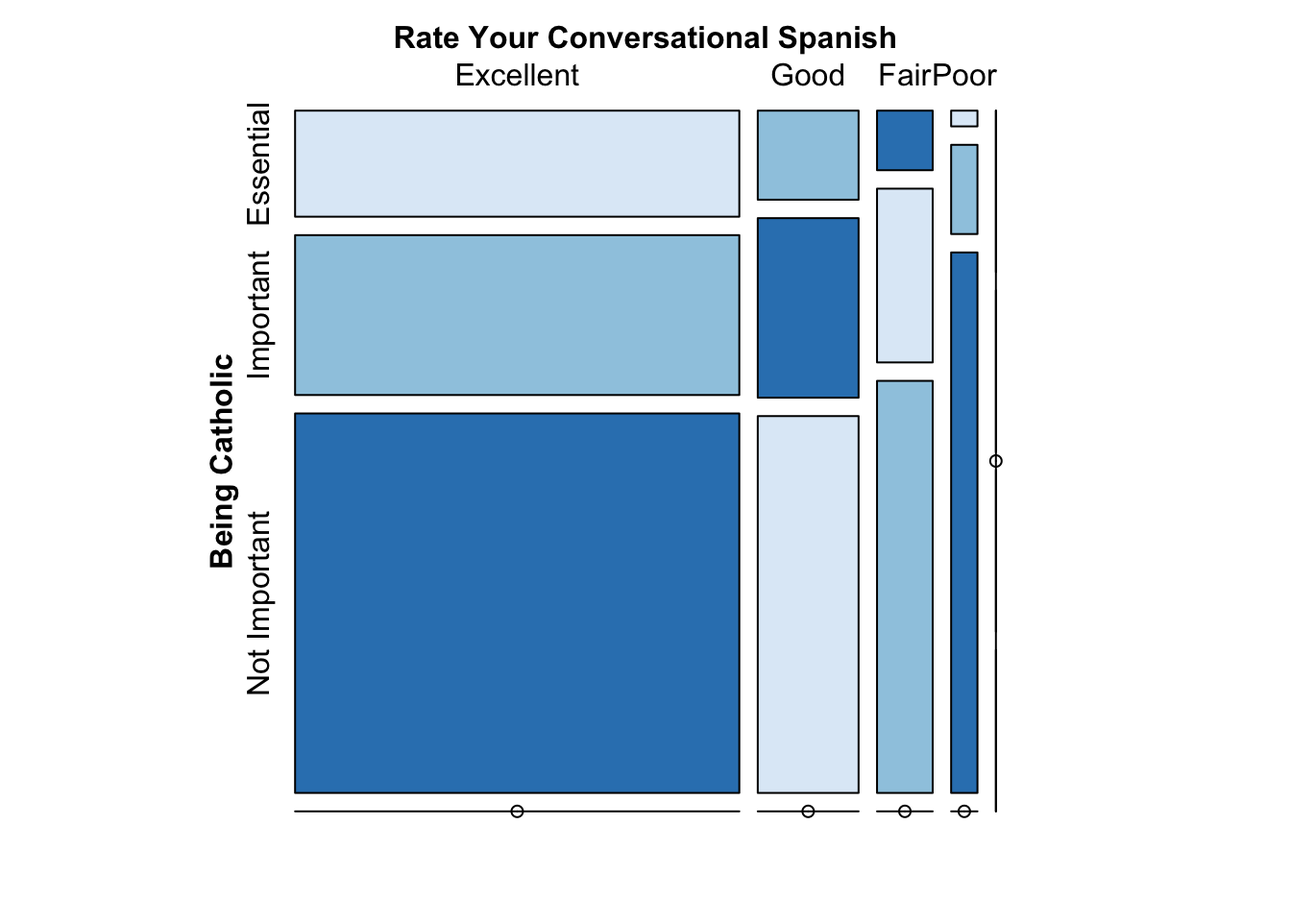
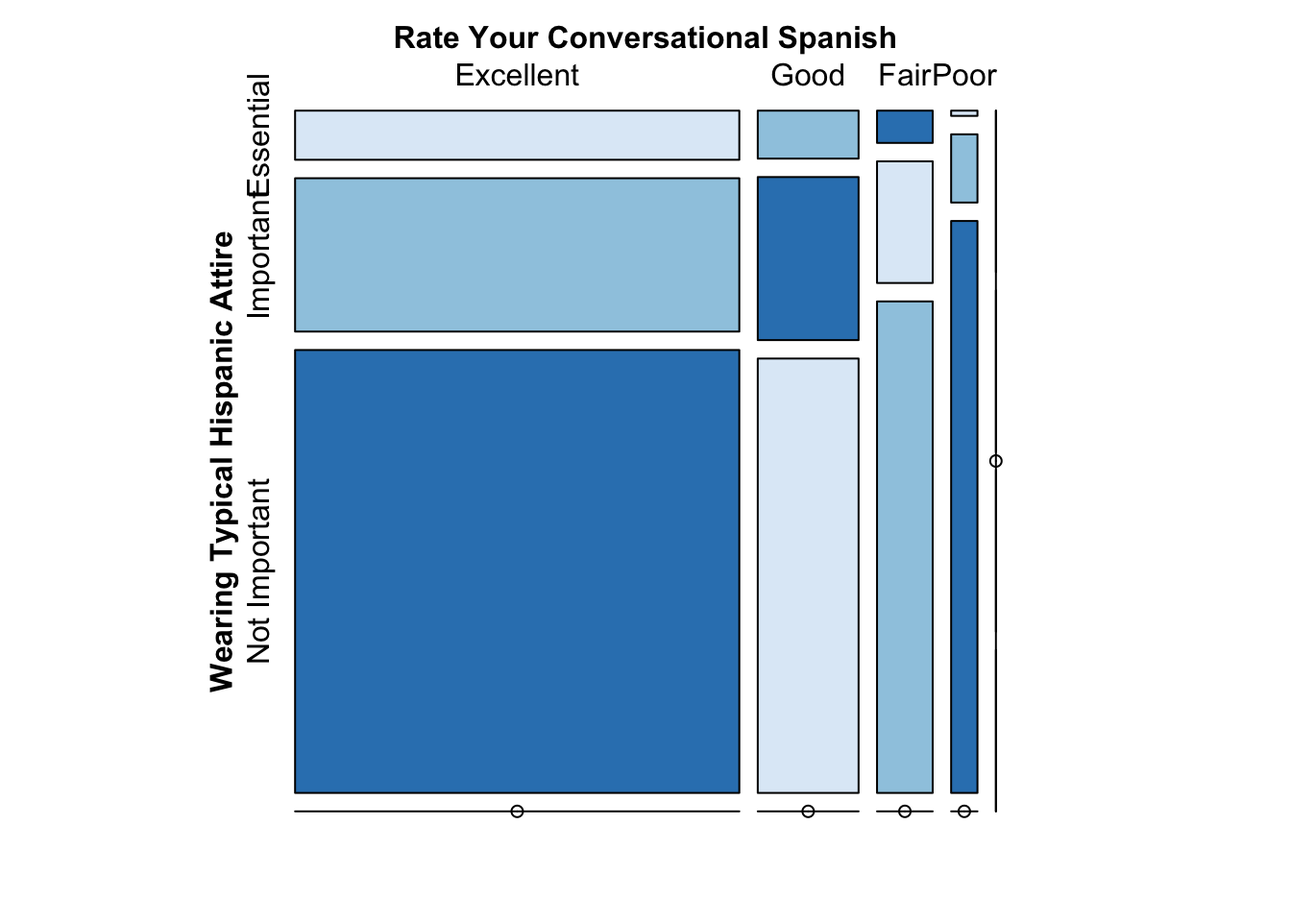
Final results

Changed region(s): [[0.1562, 0.0625, 0.7812, 0.75], [0.7188, 0.2188, 0.7812, 0.2812]]

diff --git a/docs/results.html b/docs/results.html
@@ -24,7 +24,7 @@
 <meta name="author" content="Adrian Garcia Hernandez, Mendel Branover" />
 
 
-<meta name="date" content="2021-12-12" />
+<meta name="date" content="2021-12-13" />
 
   <meta name="viewport" content="width=device-width, initial-scale=1" />
   <meta name="apple-mobile-web-app-capable" content="yes" />
@@ -132,23 +132,23 @@
 <div id="question-1-results" class="section level3" number="5.1.1">
 <h3><span class="header-section-number">5.1.1</span> Question 1 Results:</h3>
 <p>We began our exploration of this question by exploring the proportion of survey respondents who prefer each political party. The following bar graph displays the proportion of Latinos who prefer each of the major political parties in the United States.</p>
-<p><img src="finalproj_files/figure-html/unnamed-chunk-10-1.png" width="672" />
-As evidenced in this graph, the majority of Latinos, 41.25%, support the Democrat party, followed by 24.69% who support independent candidates and 21.25% who prefer the Republican party. In contrast, a Gallop poll from December 2019 (the date when our survey data was collected), found that overall, 28% of all Americans supported the Republican and Democrat parties each while 41% of Americans supported independent candidates. In comparison, we can clearly see that there seems to be a trend where Latinos support the Democratic party more heavily than the overall American population. The same Gallop poll asked those who support independent candidates whether they leaned more towards the Republican or Democrat parties and found that respondents are equally split between both. We don’t have any data regarding the leanings of Latino respondents who consider themselves independent but this could be an interesting question to explore in the future. The strong support of the Democrat party observed from this graph, however, might support the hypothesis that a similar split in preference could be found within the subgroup of Latinos who support independent candidates.<br />
+<p><img src="finalproj_files/figure-html/unnamed-chunk-10-1.png" width="672" /></p>
+<p>As evidenced in this graph, the majority of Latinos, 41.25%, support the Democrat party, followed by 24.69% who support independent candidates and 21.25% who prefer the Republican party. In contrast, a Gallop poll from December 2019 (the date when our survey data was collected), found that overall, 28% of all Americans supported the Republican and Democrat parties each while 41% of Americans supported independent candidates. In comparison, we can clearly see that there seems to be a trend where Latinos support the Democratic party more heavily than the overall American population. The same Gallop poll asked those who support independent candidates whether they leaned more towards the Republican or Democrat parties and found that respondents are equally split between both. We don’t have any data regarding the leanings of Latino respondents who consider themselves independent but this could be an interesting question to explore in the future. The strong support of the Democrat party observed from this graph, however, might support the hypothesis that a similar split in preference could be found within the subgroup of Latinos who support independent candidates.<br />
 <a href="https://news.gallup.com/poll/15370/party-affiliation.aspx" class="uri">https://news.gallup.com/poll/15370/party-affiliation.aspx</a></p>
 <p>To explore whether this trend holds for Latinos born outside of the united states, we graphed party preference faceted on birth status.</p>
-<p><img src="finalproj_files/figure-html/unnamed-chunk-11-1.png" width="672" />
-As seen in this graph, there appears to be a difference between Latinos born in the U.S. and those born outside of it with regards to their political preference. It appears that American-born Latinos are slightly more likely to support the Republican party and independent candidates than their foreign-born counterparts, who lean more heavily towards Democrats.</p>
+<p><img src="finalproj_files/figure-html/unnamed-chunk-11-1.png" width="672" /></p>
+<p>As seen in this graph, there appears to be a difference between Latinos born in the U.S. and those born outside of it with regards to their political preference. It appears that American-born Latinos are slightly more likely to support the Republican party and independent candidates than their foreign-born counterparts, who lean more heavily towards Democrats.</p>
 <p>But, do all foreign born Latino’s share the same political preferences? The flow chart below explores the proportion of foreign-born Latinos who support each political party based on their birth country.</p>
-<div id="htmlwidget-55e43b1eed88a0d64961" style="width:672px;height:480px;" class="sankeyNetwork html-widget"></div>
-<script type="application/json" data-for="htmlwidget-55e43b1eed88a0d64961">{"x":{"links":{"source":[0,0,0,0,1,1,1,1,2,2,2,2,3,3,3,3,4,4,4,4,5,5,5,5,6,6,6,6,7,7,7,7,8,8,8,8],"target":[9,10,11,12,9,10,11,12,9,10,11,12,9,10,11,12,9,10,11,12,9,10,11,12,9,10,11,12,9,10,11,12,9,10,11,12],"value":[135,515,212,124,44,119,50,21,313,221,228,57,14,56,27,14,6,33,13,7,24,61,41,14,24,61,38,14,47,126,91,35,37,57,46,29]},"nodes":{"name":["Mexican","Puerto Rican","Cuban","Dominican","Salvadoran","Spanish","Other Central American","Other South American","Other","Republican","Democrat","Independent","Something else"],"group":["Mexican","Puerto Rican","Cuban","Dominican","Salvadoran","Spanish","Other Central American","Other South American","Other","Republican","Democrat","Independent","Something else"]},"options":{"NodeID":"name","NodeGroup":"name","LinkGroup":null,"colourScale":"d3.scaleOrdinal() .range([\"#1d8a0f\",\"#1d8a0f\",\"#1d8a0f\",\"#1d8a0f\",\"#1d8a0f\",\"#1d8a0f\",\"#1d8a0f\",\"#FF0000\",\"#0015BC\",\"#1d8a0f\",\"#1d8a0f\",\"#1d8a0f\",\"#1d8a0f\"])","fontSize":13,"fontFamily":null,"nodeWidth":40,"nodePadding":20,"units":"","margin":{"top":null,"right":null,"bottom":null,"left":null},"iterations":32,"sinksRight":true}},"evals":[],"jsHooks":[]}</script>
+<div id="htmlwidget-c31288db4e6da7e5c23a" style="width:672px;height:480px;" class="sankeyNetwork html-widget"></div>
+<script type="application/json" data-for="htmlwidget-c31288db4e6da7e5c23a">{"x":{"links":{"source":[0,0,0,0,1,1,1,1,2,2,2,2,3,3,3,3,4,4,4,4,5,5,5,5,6,6,6,6,7,7,7,7,8,8,8,8],"target":[9,10,11,12,9,10,11,12,9,10,11,12,9,10,11,12,9,10,11,12,9,10,11,12,9,10,11,12,9,10,11,12,9,10,11,12],"value":[135,515,212,124,44,119,50,21,313,221,228,57,14,56,27,14,6,33,13,7,24,61,41,14,24,61,38,14,47,126,91,35,37,57,46,29]},"nodes":{"name":["Mexican","Puerto Rican","Cuban","Dominican","Salvadoran","Spanish","Other Central American","Other South American","Other","Republican","Democrat","Independent","Something else"],"group":["Mexican","Puerto Rican","Cuban","Dominican","Salvadoran","Spanish","Other Central American","Other South American","Other","Republican","Democrat","Independent","Something else"]},"options":{"NodeID":"name","NodeGroup":"name","LinkGroup":null,"colourScale":"d3.scaleOrdinal() .range([\"#1d8a0f\",\"#1d8a0f\",\"#1d8a0f\",\"#1d8a0f\",\"#1d8a0f\",\"#1d8a0f\",\"#1d8a0f\",\"#FF0000\",\"#0015BC\",\"#1d8a0f\",\"#1d8a0f\",\"#1d8a0f\",\"#1d8a0f\"])","fontSize":13,"fontFamily":null,"nodeWidth":40,"nodePadding":20,"units":"","margin":{"top":null,"right":null,"bottom":null,"left":null},"iterations":32,"sinksRight":true}},"evals":[],"jsHooks":[]}</script>
 <p>As can be seen, the two main nationalities that make up the population of foreign born Latinos in the United States are Mexican and Cuban. By hovering over the Cuban section, we can observe that they represent a considerable proportion of those who support the Republican party. In comparison, Mexican-born Latin Americans make up a proportionally much smaller subset of those who support the Republican party. The same trend seems to hold to some degree for all other nationalities. This indicates that there might be some inherent differences in the viewpoints of Cuban-born Latinos that might be interesting to explore in depth in the future.</p>
 <p>Besides nationality, we wondered if income level could be related to political preference. The flow chart below attempts to visualize this question by sub-setting foreign-born Latinos by their self-reported economic health.</p>
-<div id="htmlwidget-c32c8b45c4a61dc16e91" style="width:672px;height:480px;" class="sankeyNetwork html-widget"></div>
-<script type="application/json" data-for="htmlwidget-c32c8b45c4a61dc16e91">{"x":{"links":{"source":[0,0,0,0,1,1,1,1,2,2,2,2,3,3,3,3,4,4,4,4,5,5,5,5,6,6,6,6,7,7,7,7,8,8,8,8,9,9,9,9,10,10,10,10,11,11,11,11,12,12,12,12],"target":[9,10,11,12,9,10,11,12,9,10,11,12,9,10,11,12,9,10,11,12,9,10,11,12,9,10,11,12,9,10,11,12,9,10,11,12,13,14,15,16,13,14,15,16,13,14,15,16,13,14,15,16],"value":[44,356,445,169,15,68,107,50,51,306,363,104,10,28,48,28,2,19,30,11,8,65,50,23,6,49,67,21,13,125,139,30,7,54,88,19,58,40,47,12,286,422,241,100,237,588,345,126,59,197,114,77]},"nodes":{"name":["Mexican","Puerto Rican","Cuban","Dominican","Salvadoran","Spanish","Other Central American","Other South American","Other","Excellent shape","Good shape","Only fair shape","Poor shape","Republican","Democrat","Independent","Something else"],"group":["Mexican","Puerto Rican","Cuban","Dominican","Salvadoran","Spanish","Other Central American","Other South American","Other","Excellent shape","Good shape","Only fair shape","Poor shape","Republican","Democrat","Independent","Something else"]},"options":{"NodeID":"name","NodeGroup":"name","LinkGroup":null,"colourScale":"d3.scaleOrdinal() .range([\"#1d8a0f\",\"#1d8a0f\",\"#1d8a0f\",\"#1d8a0f\",\"#1d8a0f\",\"#1d8a0f\",\"#1d8a0f\",\"#1d8a0f\",\"#1d8a0f\",\"#1d8a0f\",\"#1d8a0f\",\"#FF0000\",\"#0015BC\",\"#1d8a0f\",\"#1d8a0f\"])","fontSize":13,"fontFamily":null,"nodeWidth":40,"nodePadding":20,"units":"","margin":{"top":null,"right":null,"bottom":null,"left":null},"iterations":32,"sinksRight":true}},"evals":[],"jsHooks":[]}</script>
+<div id="htmlwidget-e4e8a3135a2f03b0586b" style="width:672px;height:480px;" class="sankeyNetwork html-widget"></div>
+<script type="application/json" data-for="htmlwidget-e4e8a3135a2f03b0586b">{"x":{"links":{"source":[0,0,0,0,1,1,1,1,2,2,2,2,3,3,3,3,4,4,4,4,5,5,5,5,6,6,6,6,7,7,7,7,8,8,8,8,9,9,9,9,10,10,10,10,11,11,11,11,12,12,12,12],"target":[9,10,11,12,9,10,11,12,9,10,11,12,9,10,11,12,9,10,11,12,9,10,11,12,9,10,11,12,9,10,11,12,9,10,11,12,13,14,15,16,13,14,15,16,13,14,15,16,13,14,15,16],"value":[44,356,445,169,15,68,107,50,51,306,363,104,10,28,48,28,2,19,30,11,8,65,50,23,6,49,67,21,13,125,139,30,7,54,88,19,58,40,47,12,286,422,241,100,237,588,345,126,59,197,114,77]},"nodes":{"name":["Mexican","Puerto Rican","Cuban","Dominican","Salvadoran","Spanish","Other Central American","Other South American","Other","Excellent shape","Good shape","Only fair shape","Poor shape","Republican","Democrat","Independent","Something else"],"group":["Mexican","Puerto Rican","Cuban","Dominican","Salvadoran","Spanish","Other Central American","Other South American","Other","Excellent shape","Good shape","Only fair shape","Poor shape","Republican","Democrat","Independent","Something else"]},"options":{"NodeID":"name","NodeGroup":"name","LinkGroup":null,"colourScale":"d3.scaleOrdinal() .range([\"#1d8a0f\",\"#1d8a0f\",\"#1d8a0f\",\"#1d8a0f\",\"#1d8a0f\",\"#1d8a0f\",\"#1d8a0f\",\"#1d8a0f\",\"#1d8a0f\",\"#1d8a0f\",\"#1d8a0f\",\"#FF0000\",\"#0015BC\",\"#1d8a0f\",\"#1d8a0f\"])","fontSize":13,"fontFamily":null,"nodeWidth":40,"nodePadding":20,"units":"","margin":{"top":null,"right":null,"bottom":null,"left":null},"iterations":32,"sinksRight":true}},"evals":[],"jsHooks":[]}</script>
 <p>The flow chart shows that for every nationality, support for the Republican party is proportionally smaller as for the subset of immigrants who report their financial health to be in fair or poor shape. It is also interesting to note that although Cubans and Mexicans make up most of the foreign born residents, their proportion of respondents who reported their financial health as being in excellent shape is not significantly larger than those of other nationalities.</p>
 <p>The flow chart below serves to summarize some of our results for this question. We can see that support for each party does very with the birth country of the respondent and that the country of birth also influences political preferences. In particular, it shows that Cubans tend to be ovverly represented in thei support for the Republican party.</p>
-<div id="htmlwidget-6b8db64c44fc8006d3e9" style="width:672px;height:480px;" class="sankeyNetwork html-widget"></div>
-<script type="application/json" data-for="htmlwidget-6b8db64c44fc8006d3e9">{"x":{"links":{"source":[0,0,1,1,2,2,3,3,4,4,4,4,5,5,5,5,6,6,6,6,7,7,7,7,8,8,8,8,9,9,9,9,10,10,10,10,11,11,11,11,12,12,12,12],"target":[13,14,13,14,13,14,13,14,1,0,2,3,1,0,2,3,1,0,2,3,1,0,2,3,1,0,2,3,1,0,2,3,1,0,2,3,1,0,2,3,1,0,2,3],"value":[684,566,423,221,459,289,165,150,135,515,212,124,44,119,50,21,313,221,228,57,14,56,27,14,6,33,13,7,24,61,41,14,24,61,38,14,47,126,91,35,37,57,46,29]},"nodes":{"name":["Democrat","Republican","Independent","Something else","Mexican","Puerto Rican","Cuban","Dominican","Salvadoran","Spanish","Other Central American","Other South American","Other","Born in US","Not Born in US"],"group":["Democrat","Republican","Independent","Something else","Mexican","Puerto Rican","Cuban","Dominican","Salvadoran","Spanish","Other Central American","Other South American","Other","Born in US","Not Born in US"]},"options":{"NodeID":"name","NodeGroup":"name","LinkGroup":null,"colourScale":"d3.scaleOrdinal() .range([\"#0015BC\",\"#FF0000\",\"#1d8a0f\",\"#1d8a0f\",\"#1d8a0f\",\"#1d8a0f\",\"#1d8a0f\",\"#1d8a0f\",\"#1d8a0f\",\"#1d8a0f\",\"#1d8a0f\",\"#1d8a0f\",\"#1d8a0f\",\"#1d8a0f\",\"#1d8a0f\",\"#1d8a0f\",\"#1d8a0f\"])","fontSize":13,"fontFamily":null,"nodeWidth":40,"nodePadding":20,"units":"","margin":{"top":null,"right":null,"bottom":null,"left":null},"iterations":32,"sinksRight":true}},"evals":[],"jsHooks":[]}</script>
+<div id="htmlwidget-558ae57f433a4c10df71" style="width:672px;height:480px;" class="sankeyNetwork html-widget"></div>
+<script type="application/json" data-for="htmlwidget-558ae57f433a4c10df71">{"x":{"links":{"source":[0,0,1,1,2,2,3,3,4,4,4,4,5,5,5,5,6,6,6,6,7,7,7,7,8,8,8,8,9,9,9,9,10,10,10,10,11,11,11,11,12,12,12,12],"target":[13,14,13,14,13,14,13,14,1,0,2,3,1,0,2,3,1,0,2,3,1,0,2,3,1,0,2,3,1,0,2,3,1,0,2,3,1,0,2,3,1,0,2,3],"value":[684,566,423,221,459,289,165,150,135,515,212,124,44,119,50,21,313,221,228,57,14,56,27,14,6,33,13,7,24,61,41,14,24,61,38,14,47,126,91,35,37,57,46,29]},"nodes":{"name":["Democrat","Republican","Independent","Something else","Mexican","Puerto Rican","Cuban","Dominican","Salvadoran","Spanish","Other Central American","Other South American","Other","Born in US","Not Born in US"],"group":["Democrat","Republican","Independent","Something else","Mexican","Puerto Rican","Cuban","Dominican","Salvadoran","Spanish","Other Central American","Other South American","Other","Born in US","Not Born in US"]},"options":{"NodeID":"name","NodeGroup":"name","LinkGroup":null,"colourScale":"d3.scaleOrdinal() .range([\"#0015BC\",\"#FF0000\",\"#1d8a0f\",\"#1d8a0f\",\"#1d8a0f\",\"#1d8a0f\",\"#1d8a0f\",\"#1d8a0f\",\"#1d8a0f\",\"#1d8a0f\",\"#1d8a0f\",\"#1d8a0f\",\"#1d8a0f\",\"#1d8a0f\",\"#1d8a0f\",\"#1d8a0f\",\"#1d8a0f\"])","fontSize":13,"fontFamily":null,"nodeWidth":40,"nodePadding":20,"units":"","margin":{"top":null,"right":null,"bottom":null,"left":null},"iterations":32,"sinksRight":true}},"evals":[],"jsHooks":[]}</script>
 </div>
 </div>
 <div id="question-2" class="section level2" number="5.2">
@@ -165,7 +165,6 @@ As seen in this graph, there appears to be a difference between Latinos born in 
 </ol>
 <p>The graph shows that the majority of respondents have not experienced a form of ethnic discrimination in the last 12 months. It also points to a possible relationship between experiencing discrimination and the respondent’s political preferences as less respondents who have experienced discrimination support the Republican party. There does not appear to be a relationship between discrimination status and support for independent candidates.</p>
 <p><img src="finalproj_files/figure-html/unnamed-chunk-15-1.png" width="672" /></p>
-<p><img src="finalproj_files/figure-html/unnamed-chunk-16-1.png" width="672" /></p>
 <p>For the next section of this question, we are interested in possible relationship between having experienced discrimination and a person’s willingness to use the gender-neutral term Latinx to refer to the Latin American population. The Hypothesis is that perhaps people who experience discrimination are more aware of its discomfort and thus more willing to use terms that are more inclusive of others. To explore this, we first graph how many people in our sample have actually heard the term Latinx before. As we can see, only about 750 out of 3030 respondents have heard of this term.</p>
 <p><img src="finalproj_files/figure-html/unnamed-chunk-17-1.png" width="672" /></p>
 <p>We will focus on the subset of respondents who have heard the term before and explore their willingness to use the term to describe themselves as well as their belief that the term should be used to describe the whole of the Hispanic population.</p>
@@ -173,8 +172,8 @@ As seen in this graph, there appears to be a difference between Latinos born in 
 <p><img src="finalproj_files/figure-html/unnamed-chunk-18-1.png" width="672" /></p>
 <p>The main observation from this graph is that, across the board, very few respondents use the term Latinx to describe themselves. However, it does appear that respondents who have experienced discrimination are about twice as likely to describe themselves as Latinx than respondents who have not experienced discrimination in the last 12 months.</p>
 <p>Although few respondents currently used ‘Latinx’, we wondered if they supported its use to describe the hispanic population as a whole. The graph below subsets the set of respondents who have heard of the term and displays their support of using the term to describe the minority broadly.</p>
-<p><img src="finalproj_files/figure-html/unnamed-chunk-19-1.png" width="672" />
-As we can see, most of our respondents on either category do not support the usage of the term to describe the Hispanic population. Nevertheless, around 40% of respondents who have experienced discrimination would support it. This shows that expereincing discrimination seems to be correlated to support for use of ‘Latinx’</p>
+<p><img src="finalproj_files/figure-html/unnamed-chunk-19-1.png" width="672" /></p>
+<p>As we can see, most of our respondents on either category do not support the usage of the term to describe the Hispanic population. Nevertheless, around 40% of respondents who have experienced discrimination would support it. This shows that expereincing discrimination seems to be correlated to support for use of ‘Latinx’</p>
 <p>Our analysis of this question, however, was limited by the fact that most of the respodnents have never heard of the term ‘Latinx’ and thus the survey did not present them with questions regarding their approval of its usage to describe the whole of the Latin American community. It is possible that people who knew of the term do so because they run in more liberal circles where gender inclusiveness is encouraged and thus their support for the term was influenced by this. Not enough data is present to make any conclusive claims. It would have been helpful if the survey designers had presented a definition of ‘Latinx’ to those who have not heard of it in order to capture their views on the term and thus have more complete data.</p>
 </div>
 </div>
@@ -188,8 +187,8 @@ As we can see, most of our respondents on either category do not support the usa
 <p><img src="finalproj_files/figure-html/unnamed-chunk-20-1.png" width="672" /></p>
 <p>Next, we explore if the distribution of party affiliation differs between the subgroups of respondents who are bilingual, strictly Spanish speakers, or strictly English speakers.</p>
 <p>The graph below shows that Bilingual respondents and English speaking respondents have very similar distributions of party affiliation. However, less Spanish speakers seem to identify with the Democratic party and instead support more independent candidates.<br />
-<img src="finalproj_files/figure-html/unnamed-chunk-21-1.png" width="672" />
-This result seemed unexpected and so we decided to take a look at our Spanish speakers and analyze their place of birth to see if there were any insights to their political preferences. As shown below, a majority of the respondents who only speak Spanish were born in Cuba. In Question 1, we showed that Cuban tend to differ in their political affinity from the rest of Latinos and the fact that most striclty Spanish speakers are of Cuban decent could explain the observed difference in the graph above.</p>
+<img src="finalproj_files/figure-html/unnamed-chunk-21-1.png" width="672" /></p>
+<p>This result seemed unexpected and so we decided to take a look at our Spanish speakers and analyze their place of birth to see if there were any insights to their political preferences. As shown below, a majority of the respondents who only speak Spanish were born in Cuba. In Question 1, we showed that Cuban tend to differ in their political affinity from the rest of Latinos and the fact that most striclty Spanish speakers are of Cuban decent could explain the observed difference in the graph above.</p>
 <p><img src="finalproj_files/figure-html/unnamed-chunk-22-1.png" width="672" /></p>
 <p>For the last section of this question, we wanted to explore if being conversationally fluent in Spanish impacted the respondents’ opinion on what cultural signifiers were most important to the Latin American identity. We explored a series of questions that asked respondents to rate 7 cultural signifiers as either essential, important but not essential, or not important to the Latin experience.</p>
 <p>The cultural signifiers in question were:</p>
@@ -199,52 +198,81 @@ This result seemed unexpected and so we decided to take a look at our Spanish sp
 <li><p>How important is <strong>socializing with other Hispanics</strong> to what being Hispanic means to you?</p></li>
 <li><p>How important is <strong>having a Spanish last name</strong> to what being Hispanic means to you?</p></li>
 <li><p>How important is <strong>attending Hispanic cultural events</strong> to what being Hispanic means to you?</p></li>
-<li><p>How important is <strong>wearing traditional Hispanic attire</strong> to what being Hispanic means to you?</p></li>
 <li><p>How important is <strong>being catholic</strong> to what being Hispanic means to you?</p></li>
+<li><p>How important is <strong>wearing traditional Hispanic attire</strong> to what being Hispanic means to you?</p></li>
 </ol>
-<p>We created the six mosaic plots below in order to get a quick look at possible correlations between speaking Spanish and the reported importance of these different aspects of the Hispanic identity. Overall, it appears that speaking Spanish and having two Hispanic parents are the most highly rated characteristics of the Hispanic Identity.</p>
-<p><img src="finalproj_files/figure-html/unnamed-chunk-23-1.png" width="672" /></p>
+<p>We created the six mosaic plots below in order to get a quick look at possible correlations between speaking Spanish and the reported importance of these different aspects of the Hispanic identity. We also ran chi square tests for each of the cultural signifiers and found that, for all of them, the p-value was close to zero. This meant that we could reject the null hypothesis that there is no relationship between someone’s conversational Spanish proficiency and the importance they place on certain elements of the Latino experience.</p>
+<p>Overall, it appears that speaking Spanish and having two Hispanic parents are the most highly rated characteristics of the Hispanic Identity.</p>
+<ol style="list-style-type: decimal">
+<li>How important is <strong>speaking Spanish</strong> to what being Hispanic means to you?
+<img src="finalproj_files/figure-html/unnamed-chunk-23-1.png" width="672" /></li>
+</ol>
 <pre><code>## 
 ##  Pearson&#39;s Chi-squared test
 ## 
 ## data:  table_ds10$LAN1_W58 and table_ds10$IDENSAL_a_W58
 ## X-squared = 555.96, df = 6, p-value &lt; 2.2e-16</code></pre>
+<p>Perhaps not surprisingly, it appears that most people who have an excellent handle on conversational Spanish think speaking Spanish is an essential or important aspect of the Latino identity. This could be the basis of a hypothesis that people think of their ethnic identity in very personal terms and so define what it means to belong to a particular grouping based on their own behavior. If we had data regarding the percentage of our respondents who can answer in the affirmative to the rest of our cultural signifiers we could explore this hypothesis. However, that information was not collected and so perhaps it would be a good focus for future research.</p>
+<ol start="2" style="list-style-type: decimal">
+<li>How important is <strong>having two Hispanic parents</strong> to what being Hispanic means to you?</li>
+</ol>
 <p><img src="finalproj_files/figure-html/unnamed-chunk-24-1.png" width="672" /></p>
 <pre><code>## 
 ##  Pearson&#39;s Chi-squared test
 ## 
 ## data:  table_ds10$LAN1_W58 and table_ds10$IDENSAL_e_W58
 ## X-squared = 254.01, df = 6, p-value &lt; 2.2e-16</code></pre>
+<p>Another interesting interpretation of this graph and the remeinding ones is that people who don’t speak Spanish very well tend to underplay the importance of most cultural signifiers. Very few of them think their identity is dependent on whether they speak Spanish, or whether both their parents are Hispanic. It would be interesting to explore what they concider to be the basis of the hispanic identity in future research.</p>
+<ol start="3" style="list-style-type: decimal">
+<li>How important is <strong>socializing with other Hispanics</strong> to what being Hispanic means to you?</li>
+</ol>
 <p><img src="finalproj_files/figure-html/unnamed-chunk-25-1.png" width="672" /></p>
 <pre><code>## 
 ##  Pearson&#39;s Chi-squared test
 ## 
 ## data:  table_ds10$LAN1_W58 and table_ds10$IDENSAL_d_W58
 ## X-squared = 156.24, df = 6, p-value &lt; 2.2e-16</code></pre>
+<p>A possible answer to the question posed above could be gleamed from this mosaic plot. Here we can see the largest percentage of respondents who speak Spanish poorly that have rated a social signifier as important. They comparatively seem to think socializing with other Hispanics is more important than the other signifiers.</p>
+<ol start="4" style="list-style-type: decimal">
+<li>How important is <strong>having a Spanish last name</strong> to what being Hispanic means to you?</li>
+</ol>
 <p><img src="finalproj_files/figure-html/unnamed-chunk-26-1.png" width="672" /></p>
 <pre><code>## 
 ##  Pearson&#39;s Chi-squared test
 ## 
 ## data:  table_ds10$LAN1_W58 and table_ds10$IDENSAL_f_W58
 ## X-squared = 83.397, df = 6, p-value = 7.088e-16</code></pre>
+<p>From this plot on, we can see that the proportion of respondent who think the remainding cultural signifiers are important has started to shrink. It appears not as many respondents think having a Spanish last name is as essential as speaking Spanish or having a genetic or cultural link to the Hispanic population.</p>
+<ol start="5" style="list-style-type: decimal">
+<li>How important is <strong>attending Hispanic cultural events</strong> to what being Hispanic means to you?</li>
+</ol>
 <p><img src="finalproj_files/figure-html/unnamed-chunk-27-1.png" width="672" /></p>
 <pre><code>## 
 ##  Pearson&#39;s Chi-squared test
 ## 
 ## data:  table_ds10$LAN1_W58 and table_ds10$IDENSAL_b_W58
 ## X-squared = 65.059, df = 6, p-value = 4.196e-12</code></pre>
-<p><img src="finalproj_files/figure-html/unnamed-chunk-28-1.png" width="672" /></p>
-<pre><code>## 
-##  Pearson&#39;s Chi-squared test
-## 
-## data:  table_ds10$LAN1_W58 and table_ds10$IDENSAL_c_W58
-## X-squared = 29.679, df = 6, p-value = 4.523e-05</code></pre>
-<p><img src="finalproj_files/figure-html/unnamed-chunk-29-1.png" width="672" /></p>
+<p>A similar pattern to the once above can be seen in this plot.</p>
+<ol start="6" style="list-style-type: decimal">
+<li>How important is <strong>being catholic</strong> to what being Hispanic means to you?
+<img src="finalproj_files/figure-html/unnamed-chunk-28-1.png" width="672" /></li>
+</ol>
 <pre><code>## 
 ##  Pearson&#39;s Chi-squared test
 ## 
 ## data:  table_ds10$LAN1_W58 and table_ds10$IDENSAL_g_W58
 ## X-squared = 43.13, df = 6, p-value = 1.099e-07</code></pre>
+<p>Being Catholic is the first cultural signifier that most of the respondents agree is not an important aspect of the Hispanic identity. Most of our respondents have origins in deeply catholic countries and and the fact that the importance of this religious belief to their identity is not considered as essential as others could point out to changing attitudes towards religion. This would be another interesting aspect to explore in future research.</p>
+<ol start="7" style="list-style-type: decimal">
+<li>How important is <strong>wearing traditional Hispanic attire</strong> to what being Hispanic means to you?
+<img src="finalproj_files/figure-html/unnamed-chunk-29-1.png" width="672" /></li>
+</ol>
+<pre><code>## 
+##  Pearson&#39;s Chi-squared test
+## 
+## data:  table_ds10$LAN1_W58 and table_ds10$IDENSAL_c_W58
+## X-squared = 29.679, df = 6, p-value = 4.523e-05</code></pre>
+<p>Wearing traditional ethnic attire is the least important cultural signifier of the Hispanic identity according to our respondents. Although a pattern still holds that those who speak Spanish believe it is more important than respondents who don’t.</p>
 
 </div>
 </div>

diff --git a/docs/conclusion.html b/docs/conclusion.html
@@ -24,7 +24,7 @@
 <meta name="author" content="Adrian Garcia Hernandez, Mendel Branover" />
 
 
-<meta name="date" content="2021-12-12" />
+<meta name="date" content="2021-12-13" />
 
   <meta name="viewport" content="width=device-width, initial-scale=1" />
   <meta name="apple-mobile-web-app-capable" content="yes" />
@@ -125,6 +125,9 @@
             <section class="normal" id="section-">
 <div id="conclusion" class="section level1" number="7">
 <h1><span class="header-section-number">Chapter 7</span> Conclusion</h1>
+<p>As mentioned in previous chapters, the main limitation of our research was the nature of the data. Since all information was collected thorough a survey we only had access to categorical data. This limited the visualizations we could use and also led to somewhat simplified results. An example of this could be found on the analysis of economic health on political preference found on Question 1. We only had access to a self-reported grading from ‘In excellent shape’ to ‘In poor shape’. It would have been great to instead have access to data indicating the actual income levels of respondents rather than vague, poorly defined, definitions of economic health.</p>
+<p>Another limitation was the fact that the survey only included adults over 18 years old in its target population. A lot of our questions dealt with the question of what constitutes the Latin American experience and excluding such a connected and active part of the Latin American population presented a very limited view of Latin American views of identity and political preferences. We wouldn’t be surprised if younger Latinos were much more aware of gender-neutral terms to describe their identity and more open to different interpretations of what it means to be a Latino.</p>
+<p>Exploring the views of younger Latinos would be a great topic for future research. Moreover, pointed out on the last sections of Question 3, more research exploring what Latinos believe is an important aspect of their identity would open the path for a more holistic, and much less simplistic, understanding of their political preferences and embitions.</p>
 
 </div>
             </section>

diff --git a/docs/data-transformation.html b/docs/data-transformation.html
@@ -24,7 +24,7 @@
 <meta name="author" content="Adrian Garcia Hernandez, Mendel Branover" />
 
 
-<meta name="date" content="2021-12-12" />
+<meta name="date" content="2021-12-13" />
 
   <meta name="viewport" content="width=device-width, initial-scale=1" />
   <meta name="apple-mobile-web-app-capable" content="yes" />
@@ -125,6 +125,19 @@
             <section class="normal" id="section-">
 <div id="data-transformation" class="section level1" number="3">
 <h1><span class="header-section-number">Chapter 3</span> Data transformation</h1>
+<p>Our dataset was heavily pre-processed by the researchers at the Pew Research Center and so very little data transformation was required for our project. We primarily relied on grouping and filtering the dataset based on characteristics of interest for each of our questions.</p>
+<p>The only true data transformation that took place was our creation of a Language Proficiency column to answer a section of Question 3. This was done as follows:</p>
+<ul>
+<li>We first selected the columns of interest. In this case, we limited our understanding of being proficient at a language to whether the respondent could carry on a conversation in English and Spanish well. Information regarding this was found in columns ‘LAN1_W58’ for Spanish and ‘LAN3_W58’ for English.</li>
+<li>Created a new column ‘LANPROF’ to encode language proficiency as Bilingual, Spanish, or English.</li>
+<li>Filled out column ‘LANPROF’ with the following definitions:
+<ul>
+<li>Bilingual if (LAN1_W58 == ‘Pretty well’ | LAN1_W58 == ‘Very well’) &amp; (LAN3_W58 == ‘Pretty well’ | LAN3_W58 == ‘Very well’)</li>
+<li>Spanish if (LAN1_W58 == ‘Pretty well’ | LAN1_W58 == ‘Very well’) &amp; (LAN3_W58 == ‘Just a little’ | LAN3_W58 == ‘Not at all’)</li>
+<li>English if (LAN1_W58 == ‘Just a little’ | LAN1_W58 == ‘Not at all’) &amp; (LAN3_W58 == ‘Pretty well’ | LAN3_W58 == ‘Very well’)</li>
+</ul></li>
+<li>Lastly, we filtered our any possible NA values present.</li>
+</ul>
 
 </div>
             </section>

diff --git a/docs/index.html b/docs/index.html
@@ -24,7 +24,7 @@
 <meta name="author" content="Adrian Garcia Hernandez, Mendel Branover" />
 
 
-<meta name="date" content="2021-12-12" />
+<meta name="date" content="2021-12-13" />
 
   <meta name="viewport" content="width=device-width, initial-scale=1" />
   <meta name="apple-mobile-web-app-capable" content="yes" />
@@ -126,7 +126,7 @@
 <div id="header">
 <h1 class="title">Latinx Political Identity</h1>
 <p class="author"><em>Adrian Garcia Hernandez, Mendel Branover</em></p>
-<p class="date"><em>2021-12-12</em></p>
+<p class="date"><em>2021-12-13</em></p>
 </div>
 <div id="introduction" class="section level1" number="1">
 <h1><span class="header-section-number">Chapter 1</span> Introduction</h1>

diff --git a/docs/404.html b/docs/404.html
@@ -24,7 +24,7 @@
 <meta name="author" content="Adrian Garcia Hernandez, Mendel Branover" />
 
 
-<meta name="date" content="2021-12-12" />
+<meta name="date" content="2021-12-13" />
 
   <meta name="viewport" content="width=device-width, initial-scale=1" />
   <meta name="apple-mobile-web-app-capable" content="yes" />

diff --git a/docs/data-sources.html b/docs/data-sources.html
@@ -24,7 +24,7 @@
 <meta name="author" content="Adrian Garcia Hernandez, Mendel Branover" />
 
 
-<meta name="date" content="2021-12-12" />
+<meta name="date" content="2021-12-13" />
 
   <meta name="viewport" content="width=device-width, initial-scale=1" />
   <meta name="apple-mobile-web-app-capable" content="yes" />

diff --git a/docs/interactive-component.html b/docs/interactive-component.html
@@ -24,7 +24,7 @@
 <meta name="author" content="Adrian Garcia Hernandez, Mendel Branover" />
 
 
-<meta name="date" content="2021-12-12" />
+<meta name="date" content="2021-12-13" />
 
   <meta name="viewport" content="width=device-width, initial-scale=1" />
   <meta name="apple-mobile-web-app-capable" content="yes" />

diff --git a/docs/missing-values.html b/docs/missing-values.html
@@ -24,7 +24,7 @@
 <meta name="author" content="Adrian Garcia Hernandez, Mendel Branover" />
 
 
-<meta name="date" content="2021-12-12" />
+<meta name="date" content="2021-12-13" />
 
   <meta name="viewport" content="width=device-width, initial-scale=1" />
   <meta name="apple-mobile-web-app-capable" content="yes" />
